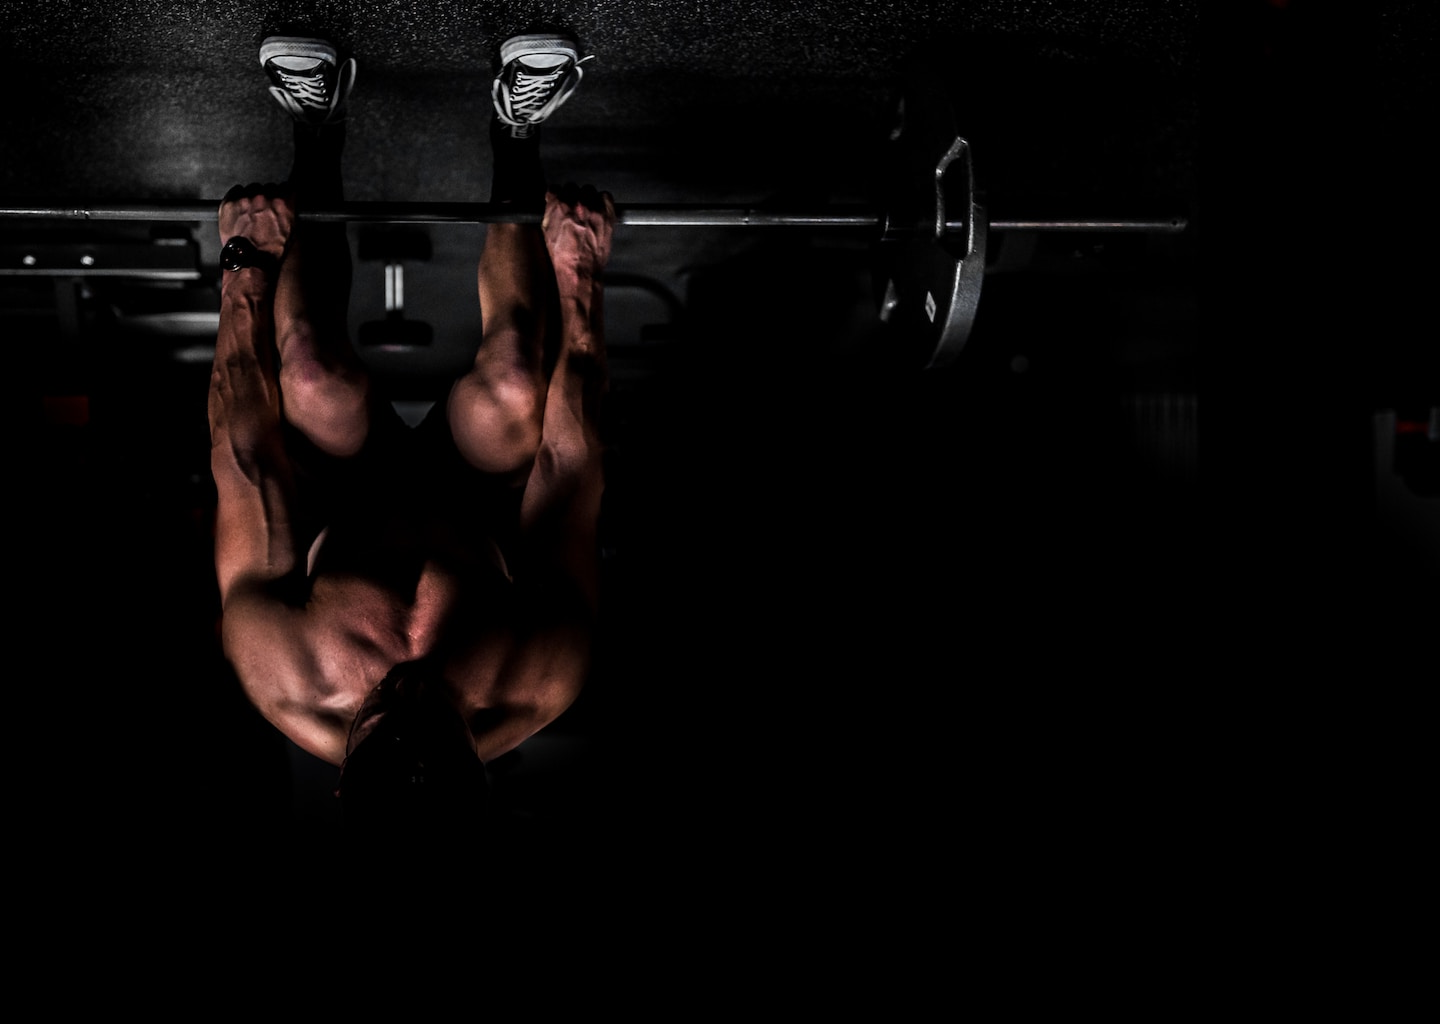
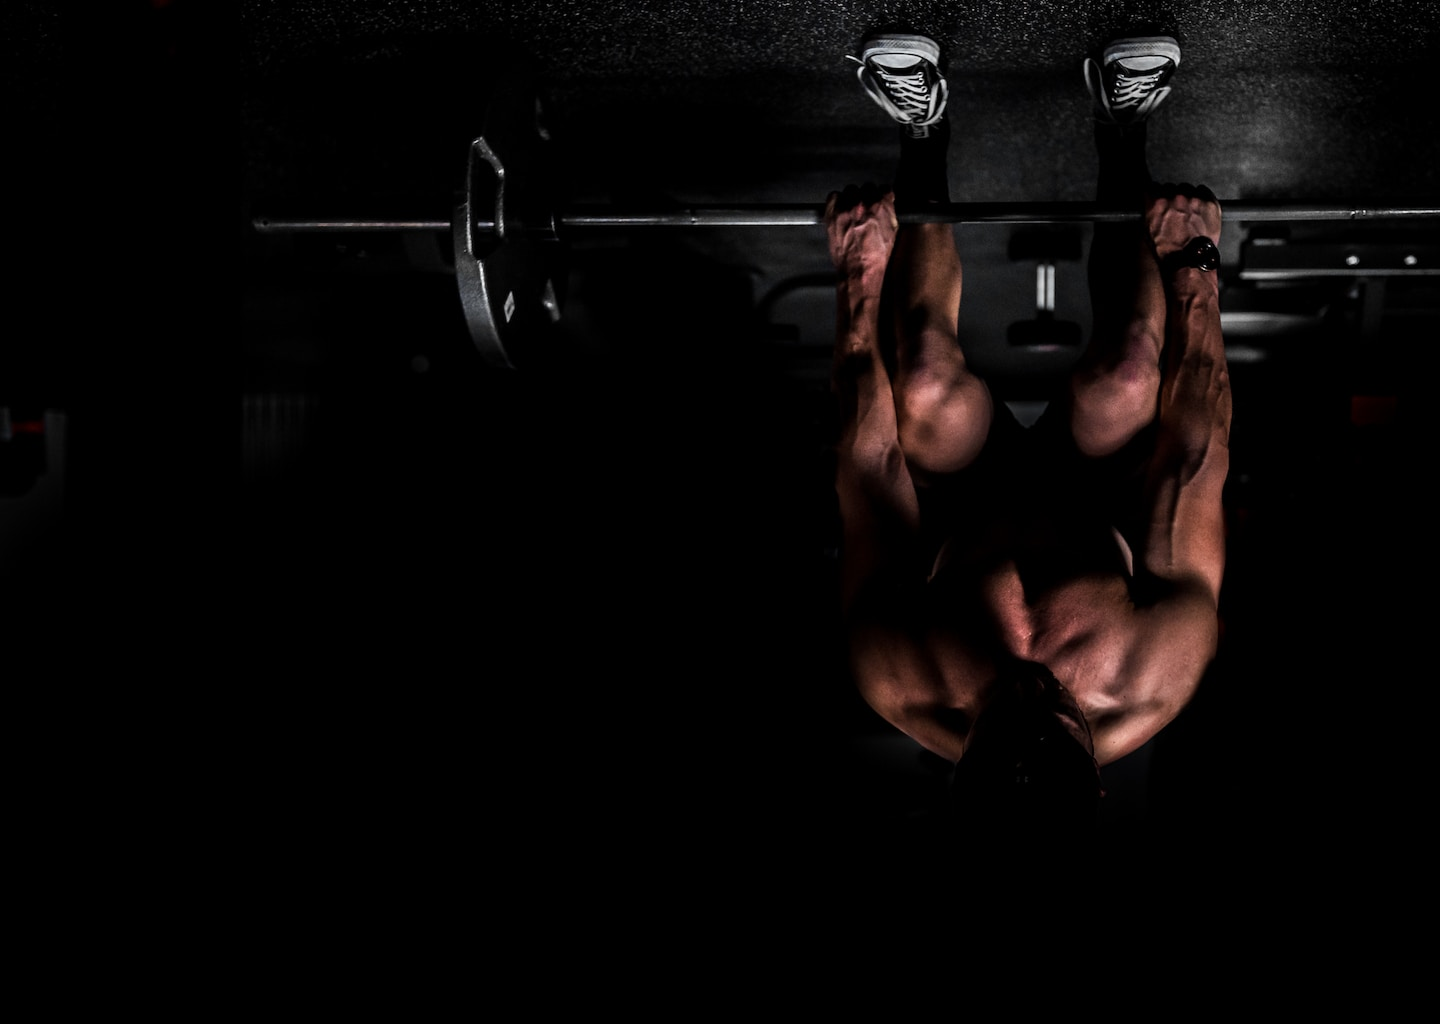
Fitness Plans & Nutritions section done

Changed region(s): [[0.0, 0.0, 1.0, 0.75], [0.9688, 0.4062, 1.0, 0.4375], [0.0, 0.4062, 0.0312, 0.4375]]

diff --git a/index.html b/index.html
@@ -14,9 +14,9 @@
       <title>Bodyshape.</title>
    </head>
    <body>
-      <main class="">
+      <main class=" bg-black">
          <header
-            class="h-[1024px] bg-contain lg:bg-cover bg-no-repeat bg-[url('/image/banner.png')] relative"
+            class=" lg:h-[1020px] w-screen bg-contain lg:bg-cover bg-no-repeat  bg-[url('/image/banner.png')] relative"
          >
             <!-- nav secton start  -->
             <nav
@@ -65,7 +65,7 @@
             <!-- nav section end -->
             <!-- hero section start here -->
             <div
-               class="text-white text-center md:flex flex-col gap-10 items-start mt-5 md:mt-20"
+               class="text-white text-center md:flex flex-col gap-10 items-start pb-10 md:mt-20"
             >
                <div
                   class="md:w-[500px] flex flex-col items-center gap-2 bg-gradient-to-b from-[#393939] to-[#393939]/0"
@@ -94,6 +94,7 @@
                </div>
             </div>
             <!-- hero section end -->
+            
             <div
                class="text-white bg-gradient-to-r from-[#F66844] to-[#FF921B] flex gap-5 w-33 p-1 [clip-path:polygon(0_0,100%_0,80%_100%,0_100%)] absolute bottom-[-15px]"
             >
@@ -109,7 +110,100 @@
             </div>
          </header>
          <!-- header section end here -->
+         <!-- Fitness Plans & Nutritions -->
+         <div
+            class="text-white lg:h-[1020px] w-screen bg-contain lg:bg-cover bg-no-repeat bg-[url('./image/roated_banner.png')]"
+         >
+            <h1 class="pt-4 md:pt-10 font-bold text-xl md:text-4xl">
+               Fitness Plans & <span class="text-[#FF921B]">Nutritions</span>
+            </h1>
+            <div class="grid grid-cols-3 p-5 md:p-15">
+               <!-- card -01 -->
+               <div class="md:p-6 p-2 pt-0 border-r-2 border-b-2 border-[#FF921B]">
+                  <div class="flex flex-col text-center items-center gap-1 md:gap-8">
+                     <div>
+                        <img class="md:w-20 w-5" src="./image/workout 1.png" alt="" />
+                     </div>
+                     <h1 class="md:text-2xl text-xs font-bold">Weight Loss</h1>
+                     <p class="text-[5px] md:text-xs">
+                        Weight loss can have causes that aren't due to
+                        underlying disease. Examples include dieting, exercise,
+                        malnutrition or lack of access to food.
+                     </p>
+                  </div>
+               </div>
+               <!-- card-2 -->
+               <div class=" md:p-6 p-2 pt-0 border-r-2 border-b-2 border-[#FF921B]">
+                  <div class="flex flex-col text-center items-center gap-8">
+                     <div>
+                        <img class="md:w-20 w-5" src="./image/yoga 1.png" alt="" />
+                     </div>
+                     <h1 class="md:text-2xl text-xs font-bold">Classic Yoga</h1>
+                     <p class="text-[5px] md:text-xs">
+                        The term "yoga" in the Western world often denotes a
+                        modern form of Hatha yoga and a posture-based physical
+                        fitness, stress-relief..
+                     </p>
+                  </div>
+               </div>
+               <!-- 03 -->
+               <div class=" md:p-6 p-2 pt-0  border-b-2 border-[#FF921B]">
+                  <div class="flex flex-col text-center items-center gap-8">
+                     <div>
+                        <img class="md:w-20 w-5" src="./image/bicycle 1.png" alt="" />
+                     </div>
+                     <h1 class="md:text-2xl text-xs font-bold">Cycling</h1>
+                     <p class="text-[5px] md:text-xs">
+                        Cycling, also, when on a two-wheeled bicycle, called
+                        bicycling or biking, is the use of cycles for transport,
+                        recreation, exercise or sport.
+                     </p>
+                  </div>
+               </div>
 
+               <!-- card-04 -->
+               <div class=" md:p-6 p-2 pt-0 border-r-2 border-[#FF921B]">
+                  <div class="flex flex-col text-center items-center gap-8">
+                     <div>
+                        <img class="md:w-20 w-5" src="./image/biceps.png" alt="" />
+                     </div>
+                     <h1 class="md:text-2xl text-xs font-bold">Body Building</h1>
+                     <p class="text-[5px] md:text-xs">
+                        Bodybuilding is the use of progressive resistance
+                        exercise to control and develop one's muscles by muscle
+                        hypertrophy for aesthetic purposes.
+                     </p>
+                  </div>
+               </div>
+               <!-- card-05 -->
+               <div class="md:p-6 p-2 pt-0 border-r-2 border-[#FF921B]">
+                  <div class="flex flex-col text-center items-center gap-8">
+                     <div>
+                        <img class="md:w-20 w-5" src="./image/workout 1.png" alt="" />
+                     </div>
+                     <h1 class="md:text-2xl text-xs font-bold">Musculation</h1>
+                     <p class="text-[5px] md:text-xs">
+                        Weight training is a common type of strength training
+                        for developing the strength, size of skeletal muscles
+                        and maintenance of strength.
+                     </p>
+                  </div>
+               </div>
+               <!-- card-06 -->
+               <div class=" md:p-6 p-2 pt-0">
+                  <div class="flex flex-col text-center items-center gap-8">
+                     <div>
+                        <img class="md:w-20 w-5" src="./image/runer-silhouette-running-fast.png" alt="" />
+                     </div>
+                     <h1 class="md:text-2xl text-xs font-bold">Fitness Running</h1>
+                     <p class="text-[5px] md:text-xs">
+                        Running is a method of terrestrial locomotion allowing
+                        humans and other animals to move rapidly on foot.
+                     </p>
+                  </div>
+               </div>
+            </div>
+         </div>
       </main>
    </body>
 </html>
